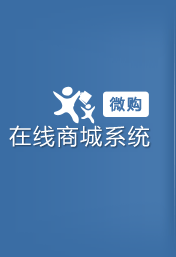
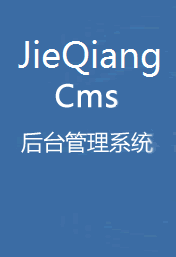
后台版权修改

Changed region(s): [[0.0568, 0.3113, 0.8807, 0.5914], [0.0852, 0.1556, 0.9091, 0.3113], [0.9659, 0.2179, 0.9943, 0.7471]]

diff --git a/admin/Tpl/default/public/main.html b/admin/Tpl/default/public/main.html
@@ -1,7 +1,7 @@
 <include file="public:header" />
 <link href="__ROOT__/statics/admin/css/main.css" rel="stylesheet" type="text/css"/>
 <script type="text/javascript">
-$(function(){	
+$(function(){
 	$(".main_con").hover(
 			  function () {
 			    $(this).css("background","#ffffcc");
@@ -13,67 +13,67 @@ $(function(){
 })
 </script>
 <div style="padding:10px; overflow:hidden;">
-	<div class="main_top" style="clear:both;">			
+	<div class="main_top" style="clear:both;">
 		<if condition="$no_security_info eq 1">
-			<h4>安全提示</h4>	
-			 <volist name="security_info" id="v">              
-					<p class="red" style="font-size:14px;">※　{$v}</p>				
-	       	</volist>	
-		</if>	
-		<h4>网站无法显示</h4>	
+			<h4>安全提示</h4>
+			 <volist name="security_info" id="v">
+					<p class="red" style="font-size:14px;">※　{$v}</p>
+	       	</volist>
+		</if>
+		<h4>网站无法显示</h4>
 		<p class="green">网站以前正常显示，现在无法显示请清除缓存试试，【<a href="{:u('cache/index')}">{$Think.lang.flush_cache}</a>】</p>
-		
+
 	</div>
 	<div style="width:50%;" class="fl">
 		<div class="main_con fl">
 			<h6>版权信息</h6>
 			<div class="content">
-								
-				<p>开发与支持团队：zhanglong，li，summer</p>
-				<p>UI/美工设计：Sean</p>				
-				<div class="hr">			
-				</div>				
-				<p>官方论坛：<a href="http://bbs.wego360.com" target="_blank">bbs.wego360.com</a></p>
+
+				<p>开发与支持团队：城动网</p>
+				<p>UI/美工设计：城动网</p>
+				<div class="hr">
+				</div>
+				<p>官方论坛：<a href="http://cdw.jieqiangtec.com" target="_blank">cdw.jieqiangtec.com</a></p>
 			</div>
-		</div>		
+		</div>
 		<div class="main_con fl">
 			<h6>配置信息</h6>
-			<div class="content">				
+			<div class="content">
 				<volist name="server_info" id="v">
-					<p>{$key} : {$v}</p>                   
+					<p>{$key} : {$v}</p>
                 </volist>
-				<div class="hr">			
-				</div>					
-			
+				<div class="hr">
+				</div>
+
 			</div>
 		</div>
-		<div class="main_con fl">
-			<h6><span class="more"><a href="#" target="_blank">more>></a></span>官方推荐</h6>
-			<div class="content">				
-				<script type="text/javascript" src="http://bbs.wego360.com/api.php?mod=js&bid=3"></script>
-			</div>
-		</div>
+		<!--<div class="main_con fl">-->
+			<!--<h6><span class="more"><a href="#" target="_blank">more>></a></span>官方推荐</h6>-->
+			<!--<div class="content">-->
+				<!--<script type="text/javascript" src="http://bbs.wego360.com/api.php?mod=js&bid=3"></script>-->
+			<!--</div>-->
+		<!--</div>-->
 	</div>
 	<div style="width:49%;" class="fr">
 		<div class="main_con fl">
 			<h6>我的个人信息</h6>
 			<div class="content">
 				<p>您好，<b style="color:#06C">{$my_info.user_name}</b> &nbsp;[{$admin_level.name}]<br></p>
-				<div class="hr">			
-				</div>               
-				<p>59秒Appkey：<b>{$set.miao_appkey}</b></p>
-				<p>59秒Appsecret：<b>{$set.miao_appsecret}</b> &nbsp; [<a href="{:U('items_collect/miaoapi')}"><u class="blue">修改</u></a>]</p>
+				<div class="hr">
+				</div>
+				<!--<p>59秒Appkey：<b>{$set.miao_appkey}</b></p>-->
+				<!--<p>59秒Appsecret：<b>{$set.miao_appsecret}</b> &nbsp; [<a href="{:U('items_collect/miaoapi')}"><u class="blue">修改</u></a>]</p>-->
 			</div>
-		</div>	
-		<div class="main_con fl">
-			<h6><span class="more"><a href="#" target="_blank">more>></a></span>官网公告</h6>
-			<div class="content">	
-				<ul>
-					<script type="text/javascript" src="http://bbs.wego360.com/api.php?mod=js&bid=4"></script>
-				</ul>			
-				
-			</div>
-		</div>	
+		</div>
+		<!--<div class="main_con fl">-->
+			<!--<h6><span class="more"><a href="#" target="_blank">more>></a></span>官网公告</h6>-->
+			<!--<div class="content">-->
+				<!--<ul>-->
+					<!--<script type="text/javascript" src="http://bbs.wego360.com/api.php?mod=js&bid=4"></script>-->
+				<!--</ul>-->
+
+			<!--</div>-->
+		<!--</div>-->
 	</div>
 </div>
 </body>

diff --git a/admin/Tpl/default/public/main - 副本.html b/admin/Tpl/default/public/main - 副本.html
@@ -1,0 +1,80 @@
+<include file="public:header" />
+<link href="__ROOT__/statics/admin/css/main.css" rel="stylesheet" type="text/css"/>
+<script type="text/javascript">
+$(function(){	
+	$(".main_con").hover(
+			  function () {
+			    $(this).css("background","#ffffcc");
+			  },
+			  function () {
+			    $(this).css("background","#ffffff");
+			  }
+	);
+})
+</script>
+<div style="padding:10px; overflow:hidden;">
+	<div class="main_top" style="clear:both;">			
+		<if condition="$no_security_info eq 1">
+			<h4>安全提示</h4>	
+			 <volist name="security_info" id="v">              
+					<p class="red" style="font-size:14px;">※　{$v}</p>				
+	       	</volist>	
+		</if>	
+		<h4>网站无法显示</h4>	
+		<p class="green">网站以前正常显示，现在无法显示请清除缓存试试，【<a href="{:u('cache/index')}">{$Think.lang.flush_cache}</a>】</p>
+		
+	</div>
+	<div style="width:50%;" class="fl">
+		<div class="main_con fl">
+			<h6>版权信息</h6>
+			<div class="content">
+								
+				<p>开发与支持团队：zhanglong，li，summer</p>
+				<p>UI/美工设计：Sean</p>				
+				<div class="hr">			
+				</div>				
+				<p>官方论坛：<a href="http://bbs.wego360.com" target="_blank">bbs.wego360.com</a></p>
+			</div>
+		</div>		
+		<div class="main_con fl">
+			<h6>配置信息</h6>
+			<div class="content">				
+				<volist name="server_info" id="v">
+					<p>{$key} : {$v}</p>                   
+                </volist>
+				<div class="hr">			
+				</div>					
+			
+			</div>
+		</div>
+		<div class="main_con fl">
+			<h6><span class="more"><a href="#" target="_blank">more>></a></span>官方推荐</h6>
+			<div class="content">				
+				<script type="text/javascript" src="http://bbs.wego360.com/api.php?mod=js&bid=3"></script>
+			</div>
+		</div>
+	</div>
+	<div style="width:49%;" class="fr">
+		<div class="main_con fl">
+			<h6>我的个人信息</h6>
+			<div class="content">
+				<p>您好，<b style="color:#06C">{$my_info.user_name}</b> &nbsp;[{$admin_level.name}]<br></p>
+				<div class="hr">			
+				</div>               
+				<p>59秒Appkey：<b>{$set.miao_appkey}</b></p>
+				<p>59秒Appsecret：<b>{$set.miao_appsecret}</b> &nbsp; [<a href="{:U('items_collect/miaoapi')}"><u class="blue">修改</u></a>]</p>
+			</div>
+		</div>	
+		<div class="main_con fl">
+			<h6><span class="more"><a href="#" target="_blank">more>></a></span>官网公告</h6>
+			<div class="content">	
+				<ul>
+					<script type="text/javascript" src="http://bbs.wego360.com/api.php?mod=js&bid=4"></script>
+				</ul>			
+				
+			</div>
+		</div>	
+	</div>
+</div>
+</body>
+</html>

diff --git a/index.html b/index.html
@@ -1,0 +1,22 @@
+<!DOCTYPE html>
+<html>
+<head>
+<meta property="qc:admins" content="60122267076215111674536375" />
+	<title>城动网，你值得拥有。</title>
+	<meta	charset="utf-8">	
+</head>
+<body>
+<h1>城动网，你值得拥有。</h1>
+<hr />
+<h2>welcome to cdw</h2>
+
+
+<br />
+<br />
+<br />
+<br />
+<br />
+
+</body>
+</html>
+
